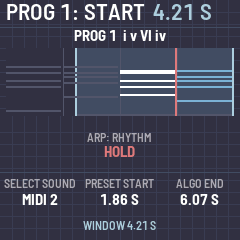
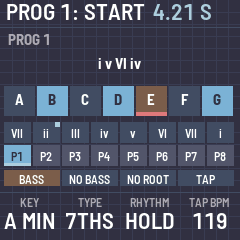
0.43: no jump to the window; in EDIT, START and END move for the selected key alone
Claude-Session: https://claude.ai/code/session_011auXBbJuCRdHVG1fENKT8m

diff --git a/app/app.c b/app/app.c
@@ -2382,7 +2382,8 @@ buttons:
                 static uint32_t at_k, at_a;
                 uint32_t now2 = plat_ms(), dtk = now2 - (ek ? at_k : at_a);
                 int32_t full_r = seq_len(r), stp = full_r / 300 > 1 ? full_r / 300 : 1, d = ek ? ek : ea;
-                uint32_t g = pad_grp(r), m = grp_pads(g) | hp;
+                int in_edit = ui.screen == SCR_PAD && ui.page == PG_SEQ;
+                uint32_t g = pad_grp(r), m = in_edit ? (hp ? hp : 1u << r) : grp_pads(g) | hp;   /* EDIT: the selected key */
                 int hold_chord = pads[r].type == PAD_CHORD && (pfx[r].plays == RH_HOLD);
                 char t[16];
                 if (shift())
@@ -2413,15 +2414,15 @@ buttons:
                             cp[j].wl = (float)pwin_len(j);
                         }
                     sec_text(pwin_len(r), r, t);
-                    edit_say(ek ? "START" : "END", t);
+                    if (in_edit) {               /* EDIT: the key's own name */
+                        char kl[32];
+                        key_label(r, kl);
+                        text_cat(kl, ek ? ": START" : ": END");
+                        app_say(kl, t);
+                    } else
+                        edit_say(ek ? "START" : "END", t);
                 }
                 set_dirty = 1;
-                if (ui.screen != SCR_PAD || ui.page != PG_SEQ) {   /* the window shows while the key is held */
-                    if (!ui.peek)
-                        ui.peek = (uint8_t)(ui.screen + 1u), ui.peek_pg = ui.page;
-                    ui.screen = SCR_PAD;
-                    ui.page = PG_SEQ;
-                }
             } else if ((ek || ea) && !hp)
                 app_say(ek ? "START" : "END", hn ? "NOTE KEYS: n/a" : "HOLD A CHORD OR PROGRESSION KEY");
             else if (es && !hp && !hn)

diff --git a/app/docs/MANUAL.md b/app/docs/MANUAL.md
@@ -147,8 +147,8 @@ that key's whole group.
 
 The lines move smoothly, in tiny steps that grow the faster you turn (hold HOME for the finest). They go anywhere,
 notes there or not, up to a quarter of the sequence past either edge, and the notes never move: what's outside the
-lines is dark and doesn't play. The window shows while you turn and closes when you let go, with its length in
-seconds.
+lines is dark and doesn't play. In EDIT the lines move for the key you select (the one played last, or the one held)
+only; anywhere else, holding a key moves them for its whole group. EDIT shows the window and its length in seconds.
 
 - **Progression keys**: a tap plays START to END once.
 - **Chord keys on a rhythm or an arp**: START to END goes round while you hold the key, and stops when you let go.
@@ -172,7 +172,9 @@ last with the playhead, brown the lowest note, white the notes sounding now. Pre
 
 **ARP** steps the RHYTHM, no screen: HOLD, STABS, OFFBEAT, 3-3-2, SYNC, ARP UP, ARP DOWN, ARP UP-DN, ARP RANDOM.
 
-**EDIT** is pad edit, the window: turn PRESET for START and ALGO for END here without holding a key (section 7).
+**EDIT** is pad edit, the window: play a key to select it, then PRESET moves its START and ALGO its END, for that
+key alone. Outside EDIT, holding a key and turning PRESET or ALGO moves them for its whole group, without opening the
+window.
 
 **ENV**, the notes' shape:
 
